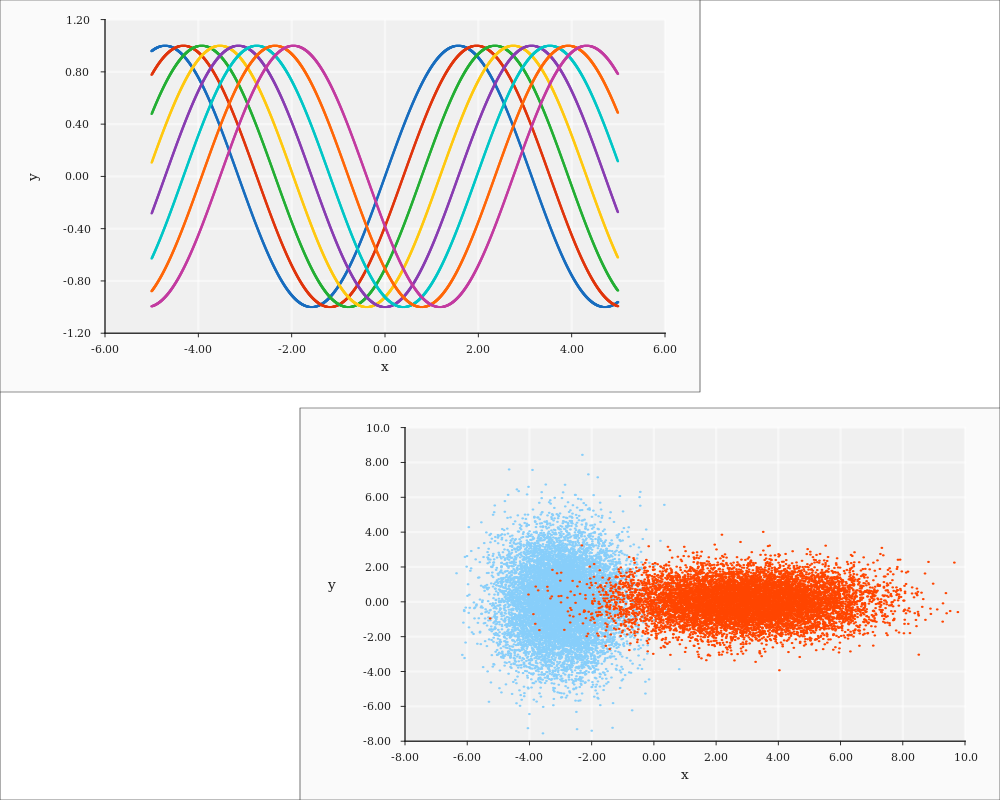
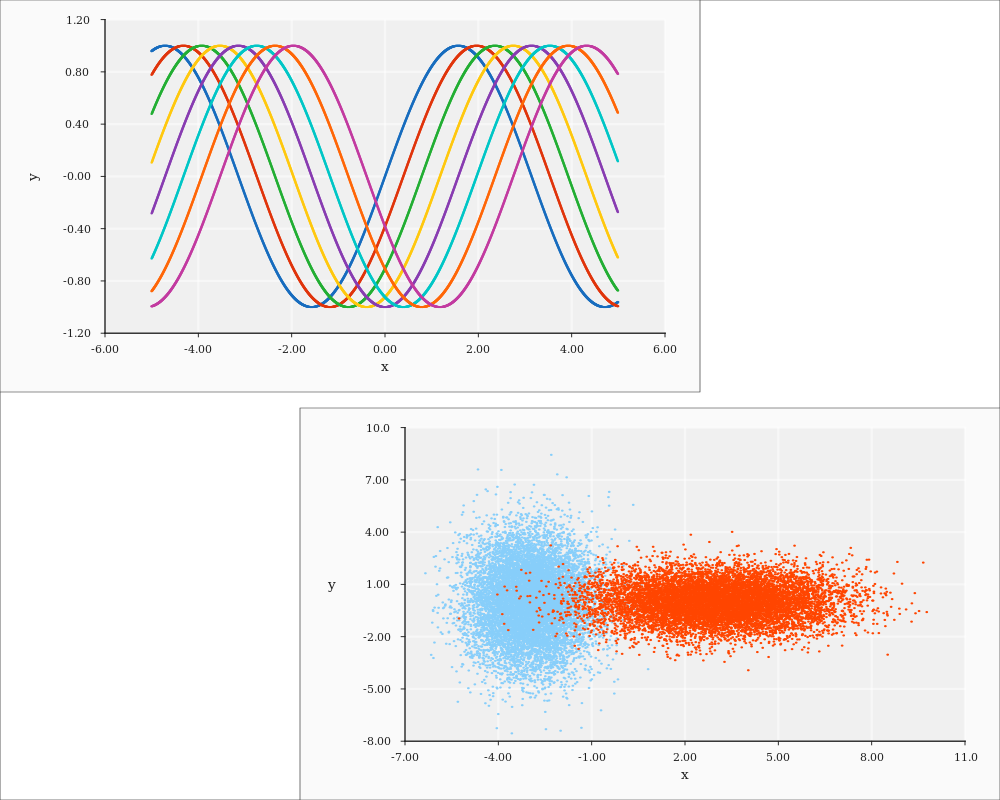
Corrected a small mistake when computing tick distance

diff --git a/src/axis.rs b/src/axis.rs
@@ -42,7 +42,7 @@ impl Axis {
             line_width: 0.0025,
             data_range: [0.0, 1.0],
             label: label,
-            ca_num_marks: 7,
+            ca_num_marks: 6,
             marks: Vec::<mark::Mark>::new(),
         }
     }
@@ -60,7 +60,7 @@ impl Axis {
             line_width: 0.0025,
             data_range: [0.0, 1.0],
             label: label,
-            ca_num_marks: 7,
+            ca_num_marks: 6,
             marks: Vec::<mark::Mark>::new(),
         }
     }
@@ -211,13 +211,13 @@ impl Axis {
     ///  that this range should be used.
     pub fn compute_marks(&mut self) -> Result<(), Error> {
         let data_diff = self.data_range[1] - self.data_range[0];
-        let ca_dist = data_diff / self.ca_num_marks as f64;
+        let ca_dist = data_diff / (self.ca_num_marks as f64 - 1.0);
         let omagn = utils::order_of_magnitude(ca_dist);
 
-        // Find for what k in (2, 5, 10) we shall round to the nearest ten power of
+        // Find for what k in (1, 2, 5) we shall round to the nearest ten power of
         let mut smallest_diff = f64::MAX;
         let mut round_number = 0f64;
-        for &i in [2.0, 5.0, 10.0].iter() {
+        for &i in [1.0, 2.0, 5.0].iter() {
             let nearest = utils::round_nearest(ca_dist, omagn, i);
             let diff = (ca_dist - nearest).abs();
             if diff < smallest_diff {

diff --git a/examples/kaplan_meier_survival.rs b/examples/kaplan_meier_survival.rs
@@ -70,6 +70,7 @@ fn survival_charts(data: &Vec<SurvivalRecord>, stage: u8, red: f32, green: f32, 
     let survival_line = Line::new(&time, &survival).set_color_rgb(red/255.0, green/255.0, blue/255.0)
                                                    .set_line_style("right_stair");
     let censored = Scatter::new(&cens_time, &cens_survival).set_color_rgb(red/255.0, green/255.0, blue/255.0)
+                                                           .set_point_size(0.01)
                                                            .set_shape("tick");
     (survival_line, censored)
 }
